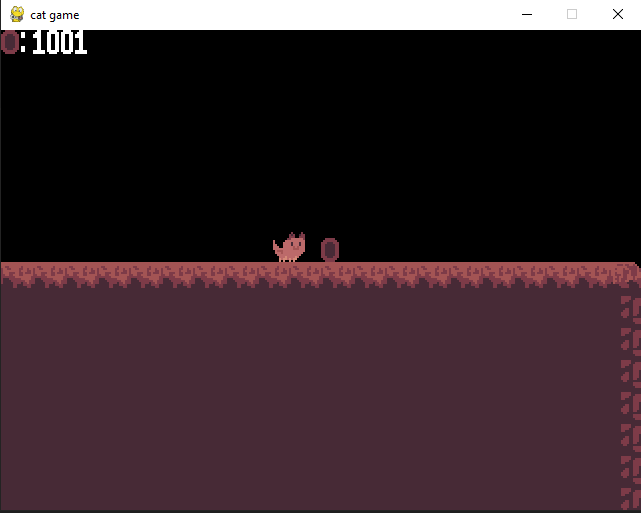
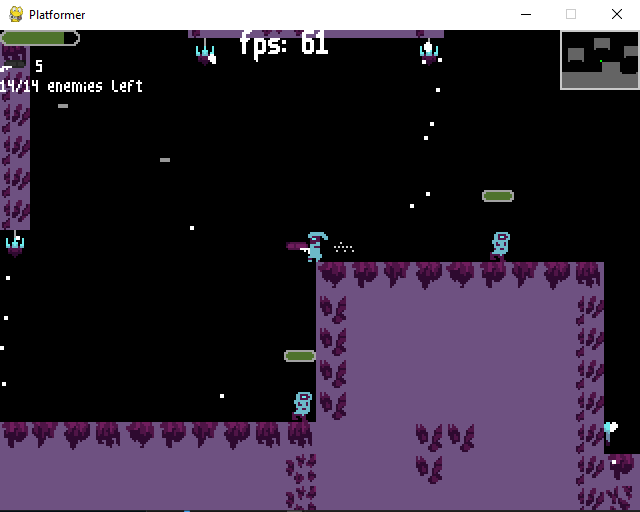
changed the window name and updated the docs

diff --git a/core/settings.py b/core/settings.py
@@ -1,4 +1,4 @@
 class Settings():
     fps = 60
     window_size = [640, 480]
-    caption = "cat game"
+    caption = "Platformer"